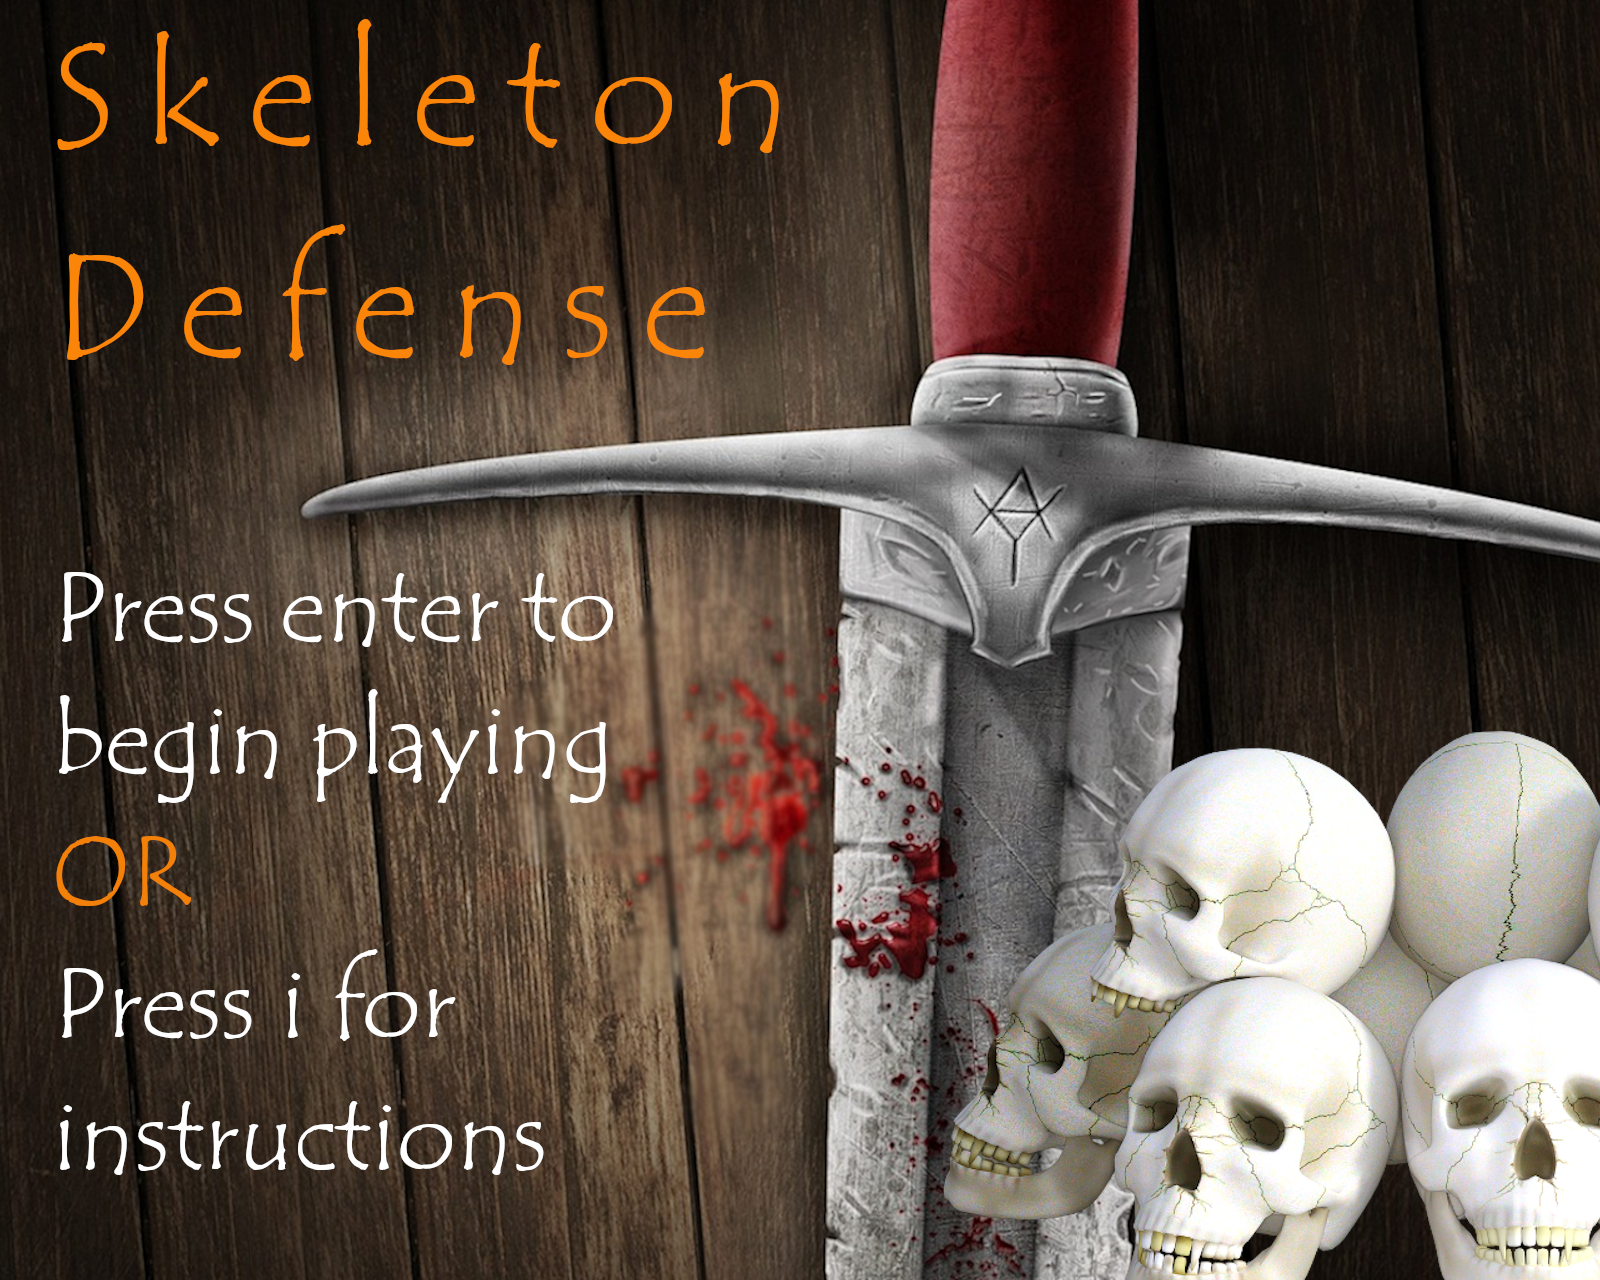
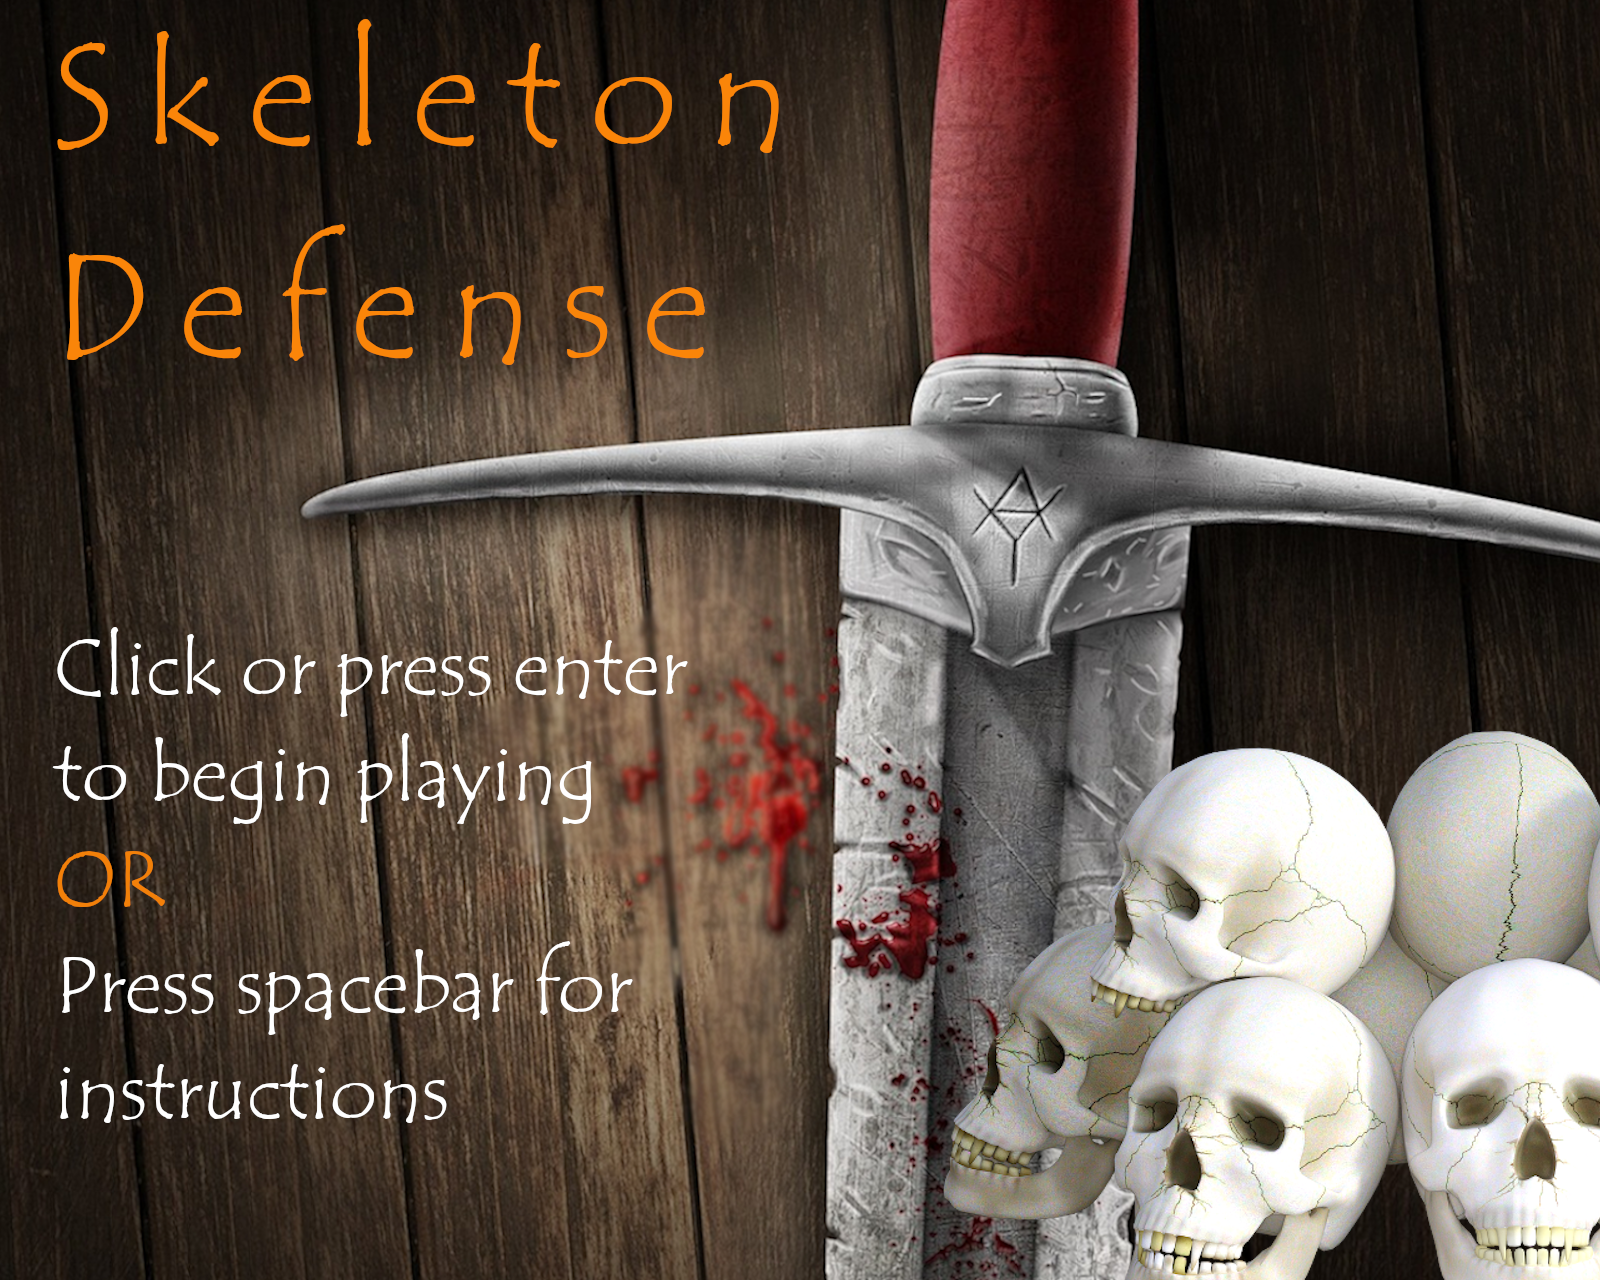
Improved the instruction menu

diff --git a/js/screens/instructions.js b/js/screens/instructions.js
@@ -1,36 +1,66 @@
+/********************************************************************
+ * Instructions screens for the beginning of the game
+ *
+ * CITATION: This code is heavily altered but still based on the
+ * MelonJS tutorial at http://melonjs.github.io/tutorial-platformer/
+ *
+ ********************************************************************/
 game.InstructionScreen = me.Stage.extend({
 
-  onResetEvent : function () {
-    /*
-	// Set and scale the image for the title screen
-    var titleImage = new me.ImageLayer(0, 0, {
-        image:"instructions"
-        });
-    titleImage.resize(TILE_WIDTH * TILE_COUNT_WIDTH, TILE_HEIGHT * TILE_COUNT_HEIGHT);
-    */
-	
-	// Set a instructions screen image.
+  onResetEvent : function (imageName) {
+	// Set necessary variables to track which screen is being shown
+	var screenNum = 1;
+	var rewinds = 0;
+	var lastScreen = 5;
+
+	// Set and scale the image for the initial screen
 	var instructionsImage = new me.Sprite(0, 0, {
-            image: me.loader.getImage('instructions'),
+            image: me.loader.getImage("instructions" + screenNum),
         }
     );
-	// Position and scale the instructions image to fit with the viewport size.
     instructionsImage.anchorPoint.set(0, 0);
     instructionsImage.scale(me.game.viewport.width / instructionsImage.width, me.game.viewport.height / instructionsImage.height);
-	
 	me.game.world.addChild(instructionsImage, 1);
 
-	// change to play state on press Enter or click/tap
-    me.input.bindKey(me.input.KEY.ENTER, "enter", true);
+	// Bind necessary keys to navigate screens
+    me.input.bindKey(me.input.KEY.SPACE, "space", true);
+    me.input.bindKey(me.input.KEY.BACKSPACE, "back", true);
+
+	// Response to keystrokes
     this.handler = me.event.subscribe(me.event.KEYDOWN, function (action, keyCode, edge) {
-      if (action === "enter") {
-        me.state.change(me.state.PLAY);
-      }
+		// Load the next screen image, one z-position higher than the last
+        if (action === "space" && screenNum < lastScreen) {
+			screenNum++;
+			instructionsImage = new me.Sprite(0, 0, {
+					image: me.loader.getImage("instructions" + screenNum),
+				}
+			);
+			instructionsImage.anchorPoint.set(0, 0);
+			instructionsImage.scale(me.game.viewport.width / instructionsImage.width, me.game.viewport.height / instructionsImage.height);
+			me.game.world.addChild(instructionsImage, screenNum + rewinds * lastScreen); 
+        }
+		// Begin the game after finishing the instructions
+        else if (action === "space") {
+            me.state.change(me.state.PLAY);
+        }
+		// Reset to the beginning of the instruction screen images, again increasing the z-position
+		if (action === "back" && screenNum == lastScreen) {
+			screenNum = 1;
+			rewinds++;
+			instructionsImage = new me.Sprite(0, 0, {
+					image: me.loader.getImage("instructions" + screenNum),
+				}
+			);
+			instructionsImage.anchorPoint.set(0, 0);
+			instructionsImage.scale(me.game.viewport.width / instructionsImage.width, me.game.viewport.height / instructionsImage.height);
+			me.game.world.addChild(instructionsImage, screenNum + rewinds * lastScreen);
+		}
     });
   },
 
   onDestroyEvent : function () {
-    me.input.unbindKey(me.input.KEY.ENTER);
+    me.input.unbindKey(me.input.KEY.SPACE);
+    me.input.unbindKey(me.input.KEY.BACKSPACE);
     me.event.unsubscribe(this.handler);
   }
 });

diff --git a/js/screens/title.js b/js/screens/title.js
@@ -1,33 +1,33 @@
+/********************************************************************
+ * Title screen
+ *
+ * CITATION: This code is adapted from the code from the MelonJS
+ * platformer tutorial at http://melonjs.github.io/tutorial-platformer/
+ *
+ ********************************************************************/
 game.TitleScreen = me.Stage.extend({
 
   onResetEvent : function () {
-    /*
 	// Set and scale the image for the title screen
-    var titleImage = new me.ImageLayer(0, 0, {
-        image:"title"
-        });
-    titleImage.resize(TILE_WIDTH * TILE_COUNT_WIDTH, TILE_HEIGHT * TILE_COUNT_HEIGHT);
-	*/
-    
-	// Set a title screen image.
 	var titleImage = new me.Sprite(0, 0, {
             image: me.loader.getImage('title'),
         }
     );
-	// Position and scale the title image to fit with the viewport size.
     titleImage.anchorPoint.set(0, 0);
     titleImage.scale(me.game.viewport.width / titleImage.width, me.game.viewport.height / titleImage.height);
-	
 	me.game.world.addChild(titleImage, 1);
 
-	// change to play state on press Enter or click/tap
+    // Bind necessary keys and left click
     me.input.bindKey(me.input.KEY.ENTER, "enter", true);
-	me.input.bindKey(me.input.KEY.I, "i", true);
+    me.input.bindPointer(me.input.pointer.LEFT, me.input.KEY.ENTER);
+	me.input.bindKey(me.input.KEY.SPACE, "space", true);
+
+	// Begin the game if enter is pressed or there is a left click
     this.handler = me.event.subscribe(me.event.KEYDOWN, function (action, keyCode, edge) {
-      if (action === "enter") {
+      if (action === "enter" || action === "click") {
         me.state.change(me.state.PLAY);
       }
-	  if (action === "i") {
+	  if (action === "space") {
 		me.state.change(me.state.INFO);
 	  }
     });
@@ -35,7 +35,8 @@ game.TitleScreen = me.Stage.extend({
 
   onDestroyEvent : function () {
     me.input.unbindKey(me.input.KEY.ENTER);
-    me.input.unbindKey(me.input.KEY.I);
+    me.input.unbindKey(me.input.KEY.SPACE);
+    me.input.unbindPointer(me.input.pointer.LEFT);
     me.event.unsubscribe(this.handler);
   }
 });

diff --git a/js/screens/play.js b/js/screens/play.js
@@ -1,3 +1,9 @@
+/********************************************************************
+ * Play screen for the actual game
+
+ * CITATION: This code is adapted from the MelonJS Boilerplate
+ *
+ ********************************************************************/
 game.PlayScreen = me.Stage.extend({
 
     onResetEvent: function() {
@@ -29,24 +35,18 @@ game.PlayScreen = me.Stage.extend({
         me.game.world.addChild(me.pool.pull("TowerMenuItem", 23*TILE_WIDTH, 4.5*TILE_HEIGHT, MENU_STUN, "button50"));
         me.game.world.addChild(me.pool.pull("TowerMenuItem", 23*TILE_WIDTH, 6.5*TILE_HEIGHT, MENU_EXPLODE, "button75"));
 
-        // FROM BOILERPLATE: Reset the score
-        game.data.score = 0;
         // Reset player life balance.
         game.data.life = 10;
         // Begin empty array of missed skeletons
         game.data.missedSkeletons = [];
 
-        // FROM BOILERPLATE: Add our HUD to the game world, add it last so that this is on top of the rest.
-        // Can also be forced by specifying a "Infinity" z value to the addChild function.
+        // Add the HUD to the game
         this.HUD = new game.HUD.Container();
         me.game.world.addChild(this.HUD);
     },
 
-    /**
-     *  ALL FROM BOILERPLATE: action to perform when leaving this screen (state change)
-     */
     onDestroyEvent: function() {
-        // remove the HUD from the game world
+        // Remove the HUD from the game world
         me.game.world.removeChild(this.HUD);
     }
 });

diff --git a/js/game.js b/js/game.js
@@ -1,13 +1,18 @@
-/* Game namespace */
+/********************************************************************
+ * Game Namespace
+ *
+ * CITATION: This code is adapted from the MelonJS Boilerplate
+ *
+ ********************************************************************/
 var game = {
 
-    // an object where to store game information
+    // Global game information
     data : {
 		// Player life balance
 		life: 0,
+        // Wave count
         wave: 0
     },
-
 
     // Run on page load.
     "onload" : function () {
@@ -30,9 +35,6 @@ var game = {
         me.state.set(me.state.MENU, new game.TitleScreen());
         me.state.set(me.state.INFO, new game.InstructionScreen());
         me.state.set(me.state.PLAY, new game.PlayScreen());
-
-        // Add our player entity in the entity pool
-        me.pool.register("mainPlayer", game.PlayerEntity);
 
         // Add the enemy skeleton objects to the entity pool
         me.pool.register("Skeleton", game.Skeleton);
@@ -78,7 +80,7 @@ var game = {
         me.input.bindKey(me.input.KEY.SPACE,  "shoot", true);
         me.input.unbindKey(me.input.KEY.SPACE);
 
-        // Start the game.
+        // Start the title menu
         me.state.change(me.state.MENU);
     }
 };

diff --git a/index.html b/index.html
@@ -1,4 +1,5 @@
 <!DOCTYPE HTML>
+<!-- Only minor adjustments made from the MelonJS Boilerplate -->
 <html>
     <head>
         <title>Defenders Capstone Project</title>
